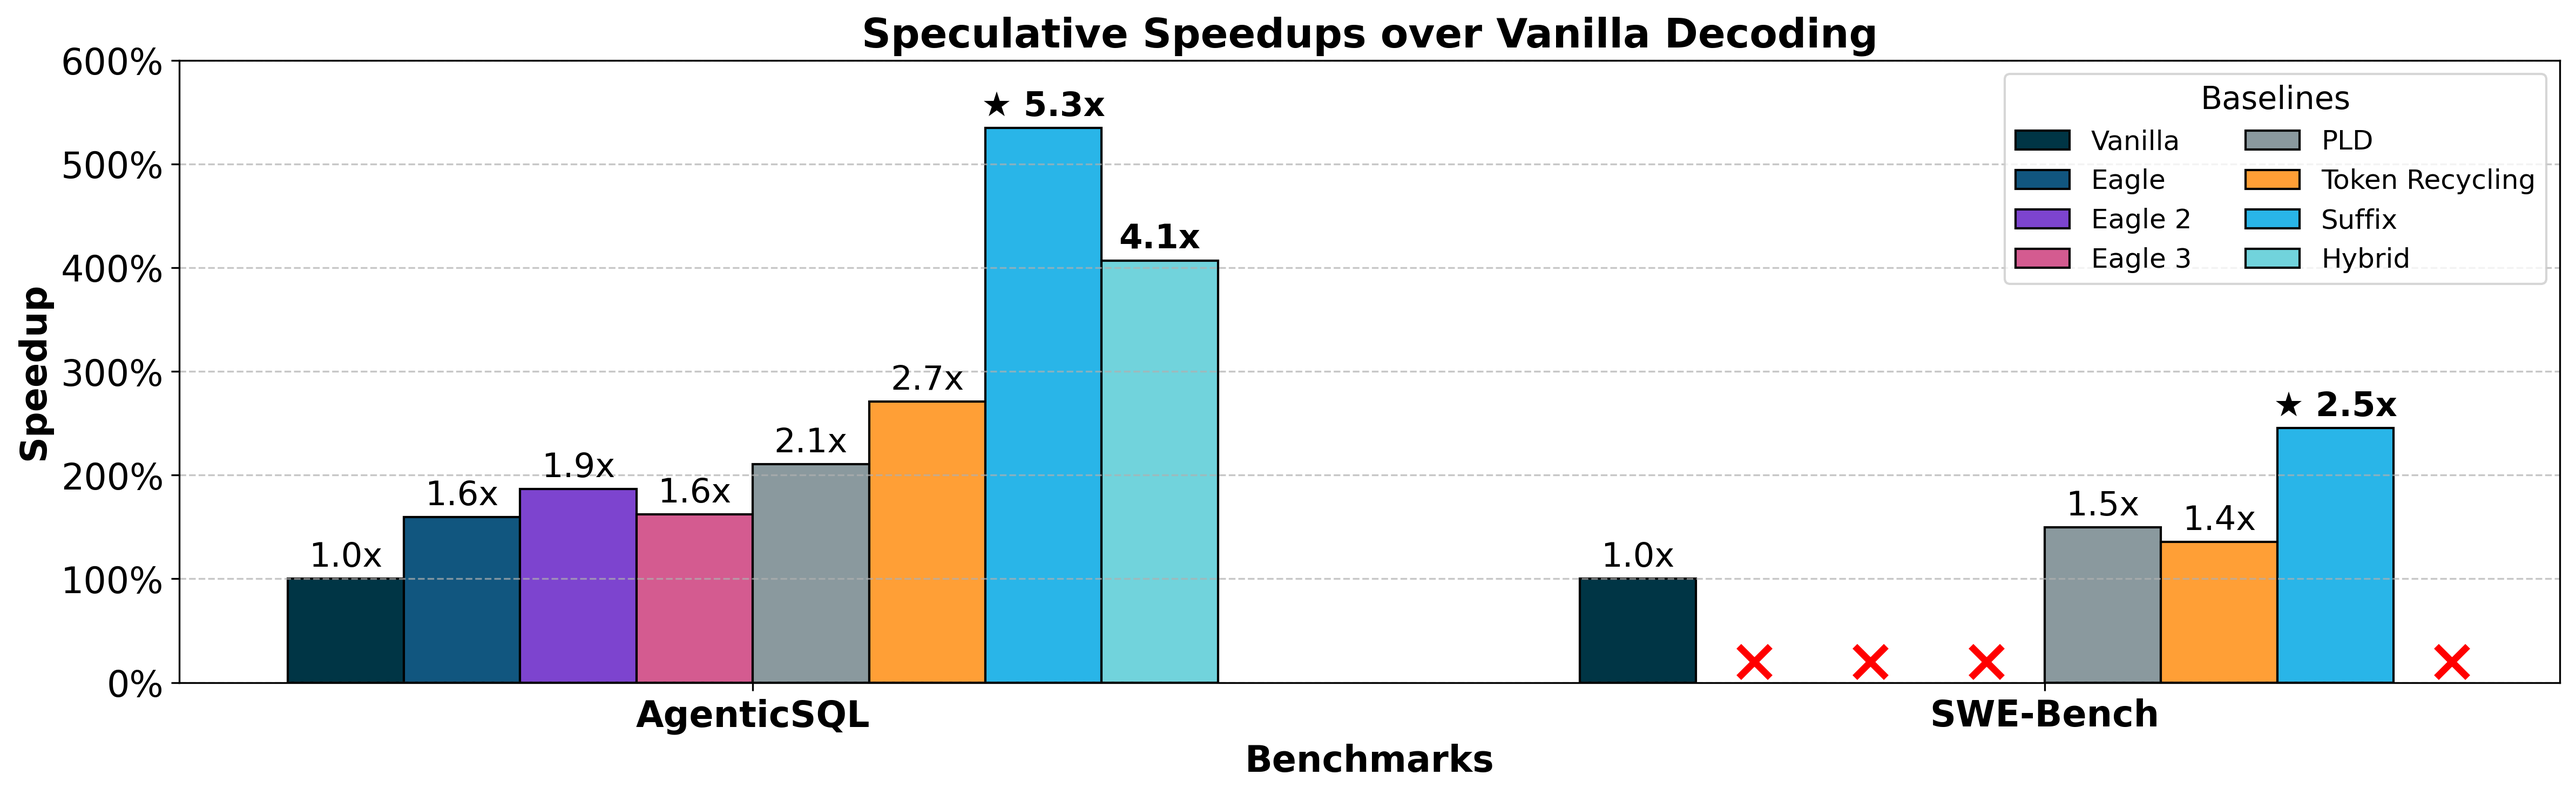
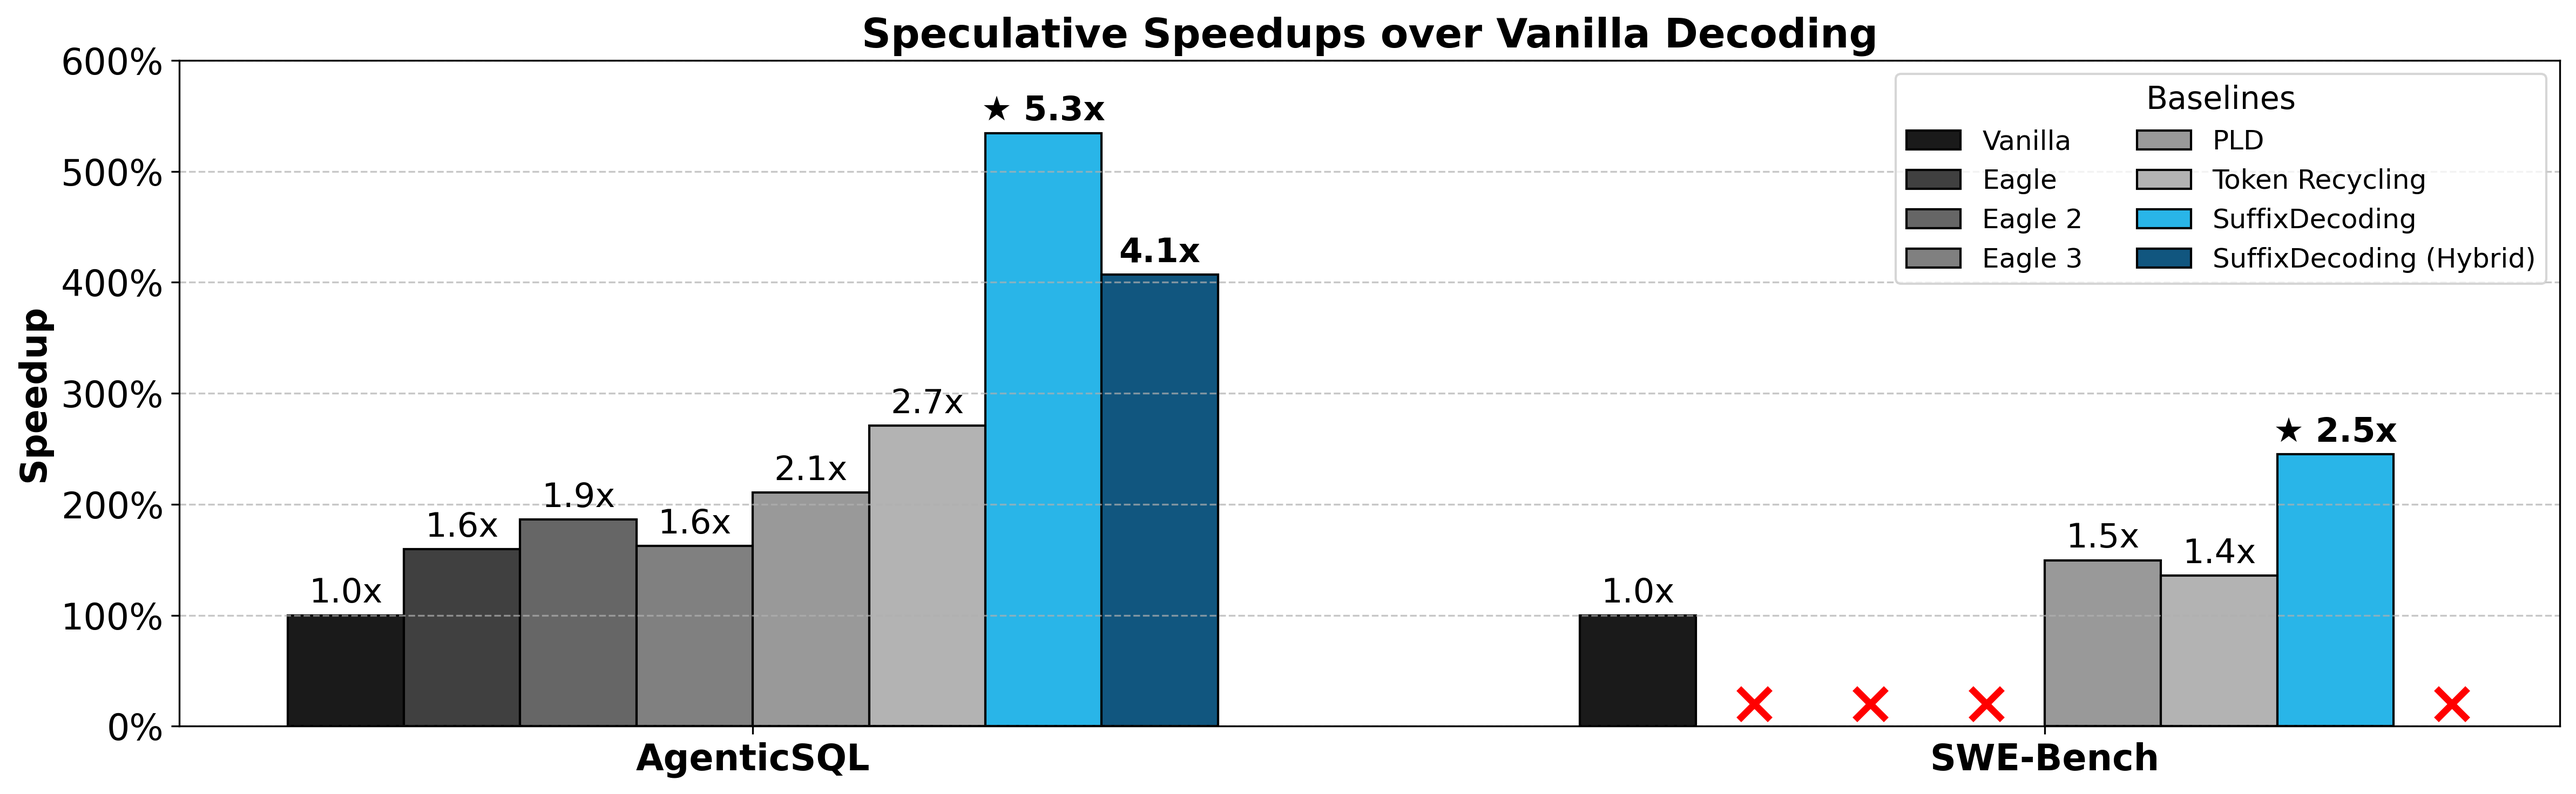
update

diff --git a/blog-post2/ngram-comparison/plot_suffix_vs_ngram.py b/blog-post2/ngram-comparison/plot_suffix_vs_ngram.py
@@ -4,41 +4,53 @@ import matplotlib.pyplot as plt
 # Data for spec_len = 32 only
 concurrency_levels = [1, 4, 16, 64]
 
-# First dataset: Suffix vs N-gram
-old_suffix_times = [4.46, 4.78, 6.23, 12.11]  # ms
-ngram_times_old = [5.37, 5.73, 6.87, 11.76]   # ms
+# First dataset: Suffix vs N-gram (old unoptimized)
+# Use best of ngram [3,5] and [5,5] for each concurrency level
+old_suffix_times = [4.33, 4.76, 6.20, 12.03]  # ms (suffix_old)
+ngram35_times_old = [5.07, 5.43, 6.73, 13.07]  # ms (ngram [3,5])
+ngram55_times_old = [5.49, 5.80, 6.87, 11.55]  # ms (ngram [5,5])
+# Best N-gram for each concurrency: min of [3,5] and [5,5]
+ngram_times_old = [min(ngram35_times_old[i], ngram55_times_old[i]) for i in range(len(concurrency_levels))]
 
 # Second dataset: Suffix vs N-gram [3,5] and N-gram [5,5] (spec-bench)
-new_suffix_times_specbench = [4.43, 4.70, 5.92, 10.96]  # ms
-ngram35_times_specbench = [5.21, 5.49, 6.80, 13.14]  # ms
-ngram55_times_specbench = [5.63, 5.83, 6.91, 11.57]  # ms
+# Using suffix_new (depth=24) from results_summary.md
+vanilla_times_specbench = [5.53, 5.78, 6.73, 10.36]  # ms
+new_suffix_times_specbench = [4.32, 4.62, 5.70, 10.37]  # ms (suffix_new depth=24)
+ngram35_times_specbench = [5.07, 5.43, 6.73, 13.07]  # ms
+ngram55_times_specbench = [5.49, 5.80, 6.87, 11.55]  # ms
 
 
 # Third dataset: Suffix vs N-gram [3,5] and N-gram [5,5] (blazedit)
-new_suffix_times_blazedit = [1.71, 1.92, 2.86, 6.06]  # ms
-ngram35_times_blazedit = [1.86, 2.16, 3.40, 7.99]  # ms
-ngram55_times_blazedit = [2.17, 2.50, 3.59, 7.42]  # ms
+# Using suffix_new (depth=24) from results_summary.md
+vanilla_times_blazedit = [5.62, 5.98, 7.44, 10.96]  # ms
+new_suffix_times_blazedit = [1.80, 2.01, 2.79, 5.58]  # ms (suffix_new depth=24)
+ngram35_times_blazedit = [1.84, 2.16, 3.37, 7.99]  # ms
+ngram55_times_blazedit = [2.15, 2.49, 3.54, 7.33]  # ms
 
 # Set width of bars
 bar_width = 0.35
 positions = np.arange(len(concurrency_levels))
 
-# Snowflake colors - using primary and secondary colors
-# Ngram [3,5]: #11567F (darker blue) on the left
-# Ngram [5,5]: #FF9F36 (orange) in the middle
-# Suffix: #29B5E8 (bright blue) on the right
-ngram35_color = '#11567F'
-ngram55_color = '#FF9F36'
-suffix_color = '#29B5E8'
+# Colors - grey for baselines (darker to lighter left to right), different blues for SuffixDecoding
+# Vanilla: darkest grey (leftmost)
+# Ngram [3,5]: medium grey
+# Ngram [5,5]: lighter grey (rightmost grey)
+# SuffixDecoding (unoptimized): #29B5E8 (bright blue)
+# SuffixDecoding (optimized): #29B5E8 (bright blue)
+vanilla_color = '#4d4d4d'  # darkest grey
+ngram35_color = '#808080'  # medium grey
+ngram55_color = '#b3b3b3'  # lighter grey
+suffix_color_old = '#29B5E8'  # for unoptimized version (changed from #11567F)
+suffix_color = '#29B5E8'  # for optimized version
 
 # ===================== FIGURE 1: Suffix (unoptimized) vs N-gram =====================
 fig1, ax1 = plt.subplots(figsize=(12, 6))
 
-# Plot bars - N-gram on the left, Suffix on the right
+# Plot bars - N-gram (best) on the left, SuffixDecoding (unoptimized) on the right
 ngram_bars = ax1.bar(positions - bar_width/2, ngram_times_old, bar_width,
-                     label='N-gram', color=ngram35_color, edgecolor='black', linewidth=1)
+                     label='N-gram (best of [3,5] and [5,5])', color=ngram35_color, edgecolor='black', linewidth=1)
 suffix_bars = ax1.bar(positions + bar_width/2, old_suffix_times, bar_width, 
-                      label='Suffix (unoptimized)', color=suffix_color, edgecolor='black', linewidth=1)
+                      label='SuffixDecoding (unoptimized)', color=suffix_color_old, edgecolor='black', linewidth=1)
 
 # Add value labels on top of bars
 for i, (suffix_val, ngram_val) in enumerate(zip(old_suffix_times, ngram_times_old)):
@@ -50,7 +62,7 @@ for i, (suffix_val, ngram_val) in enumerate(zip(old_suffix_times, ngram_times_ol
 # Customize plot
 ax1.set_xlabel('Concurrency Level', fontsize=16, fontweight='bold')
 ax1.set_ylabel('TPOT (ms)', fontsize=16, fontweight='bold')
-ax1.set_title('TPOT Comparison: Suffix (unoptimized) and N-gram\nSpec-Bench dataset', fontsize=18, fontweight='bold')
+ax1.set_title('TPOT Comparison: SuffixDecoding (unoptimized) and N-gram (best)\nSpec-Bench dataset', fontsize=18, fontweight='bold')
 ax1.set_xticks(positions)
 ax1.set_xticklabels(concurrency_levels, fontsize=14, fontweight='bold')
 ax1.tick_params(axis='y', labelsize=14)
@@ -67,74 +79,114 @@ plt.close()
 # ===================== FIGURE 2: Suffix vs N-gram [3,5] and [5,5] =====================
 fig2, ax2 = plt.subplots(figsize=(12, 6))
 
-# Plot bars - N-gram[3,5] on the left, N-gram[5,5] in the middle, Suffix on the right
-bar_width_3bars = 0.25
-ngram35_bars2 = ax2.bar(positions - bar_width_3bars, ngram35_times_specbench, bar_width_3bars,
+# Plot bars - Vanilla, N-gram[3,5], N-gram[5,5], and SuffixDecoding
+bar_width_4bars = 0.20
+vanilla_bars2 = ax2.bar(positions - 1.5*bar_width_4bars, vanilla_times_specbench, bar_width_4bars,
+                        label='Vanilla', color=vanilla_color, edgecolor='black', linewidth=1)
+ngram35_bars2 = ax2.bar(positions - 0.5*bar_width_4bars, ngram35_times_specbench, bar_width_4bars,
                         label='N-gram [3,5]', color=ngram35_color, edgecolor='black', linewidth=1)
-ngram55_bars2 = ax2.bar(positions, ngram55_times_specbench, bar_width_3bars,
+ngram55_bars2 = ax2.bar(positions + 0.5*bar_width_4bars, ngram55_times_specbench, bar_width_4bars,
                         label='N-gram [5,5]', color=ngram55_color, edgecolor='black', linewidth=1)
-suffix_bars2 = ax2.bar(positions + bar_width_3bars, new_suffix_times_specbench, bar_width_3bars, 
-                       label='Suffix', color=suffix_color, edgecolor='black', linewidth=1)
+suffix_bars2 = ax2.bar(positions + 1.5*bar_width_4bars, new_suffix_times_specbench, bar_width_4bars, 
+                       label='SuffixDecoding', color=suffix_color, edgecolor='black', linewidth=1)
 
-# Add value labels on top of bars
-for i, (ngram35_val, ngram55_val, suffix_val) in enumerate(zip(ngram35_times_specbench, ngram55_times_specbench, new_suffix_times_specbench)):
-    ax2.text(positions[i] - bar_width_3bars, ngram35_val + 0.3, f'{ngram35_val:.2f}', 
-            ha='center', va='bottom', fontsize=13, fontweight='bold')
-    ax2.text(positions[i], ngram55_val + 0.3, f'{ngram55_val:.2f}', 
-            ha='center', va='bottom', fontsize=13, fontweight='bold')
-    ax2.text(positions[i] + bar_width_3bars, suffix_val + 0.3, f'{suffix_val:.2f}', 
-            ha='center', va='bottom', fontsize=13, fontweight='bold')
+# Add speedup labels on top of bars (relative to vanilla)
+for i, (vanilla_val, ngram35_val, ngram55_val, suffix_val) in enumerate(zip(vanilla_times_specbench, ngram35_times_specbench, ngram55_times_specbench, new_suffix_times_specbench)):
+    # Calculate speedups relative to vanilla
+    vanilla_speedup = 1.0
+    ngram35_speedup = vanilla_val / ngram35_val
+    ngram55_speedup = vanilla_val / ngram55_val
+    suffix_speedup = vanilla_val / suffix_val
+    
+    ax2.text(positions[i] - 1.5*bar_width_4bars, vanilla_val + 0.3, f'{vanilla_speedup:.1f}x', 
+            ha='center', va='bottom', fontsize=11, fontweight='bold')
+    ax2.text(positions[i] - 0.5*bar_width_4bars, ngram35_val + 0.3, f'{ngram35_speedup:.2f}x', 
+            ha='center', va='bottom', fontsize=11, fontweight='bold')
+    ax2.text(positions[i] + 0.5*bar_width_4bars, ngram55_val + 0.3, f'{ngram55_speedup:.2f}x', 
+            ha='center', va='bottom', fontsize=11, fontweight='bold')
+    ax2.text(positions[i] + 1.5*bar_width_4bars, suffix_val + 0.3, f'{suffix_speedup:.2f}x', 
+            ha='center', va='bottom', fontsize=11, fontweight='bold')
 
 # Customize plot
 ax2.set_xlabel('Concurrency Level', fontsize=16, fontweight='bold')
 ax2.set_ylabel('TPOT (ms)', fontsize=16, fontweight='bold')
-ax2.set_title('TPOT Comparison: Suffix and N-gram\nSpec-Bench dataset', fontsize=18, fontweight='bold')
+ax2.set_title('TPOT Comparison: SuffixDecoding and N-gram\nSpec-Bench dataset', fontsize=18, fontweight='bold')
 ax2.set_xticks(positions)
 ax2.set_xticklabels(concurrency_levels, fontsize=14, fontweight='bold')
 ax2.tick_params(axis='y', labelsize=14)
 ax2.legend(fontsize=14, frameon=True, loc='upper left')
-ax2.set_ylim(0, 15)
+ax2.set_ylim(0, 16)  # Max value is 13.14, need room for labels
 ax2.grid(axis='y', linestyle='--', alpha=0.7)
 
 # Save plot
 plt.tight_layout()
 plt.savefig('new_suffix_vs_ngram_specbench.png', format='png', dpi=300, bbox_inches='tight')
 print("Saved: new_suffix_vs_ngram_specbench.png")
+
+# Print speedup comparisons for Spec-Bench
+print("\n=== Spec-Bench: SuffixDecoding speedup vs N-gram baselines ===")
+for i, conc in enumerate(concurrency_levels):
+    suffix_vs_ngram35 = ngram35_times_specbench[i] / new_suffix_times_specbench[i]
+    suffix_vs_ngram55 = ngram55_times_specbench[i] / new_suffix_times_specbench[i]
+    best_ngram = min(ngram35_times_specbench[i], ngram55_times_specbench[i])
+    suffix_vs_best = best_ngram / new_suffix_times_specbench[i]
+    print(f"Concurrency {conc}: vs N-gram[3,5]={suffix_vs_ngram35:.2f}x, vs N-gram[5,5]={suffix_vs_ngram55:.2f}x, vs best={suffix_vs_best:.2f}x")
+
 plt.close()
 
 # ===================== FIGURE 3: Suffix vs N-gram [3,5] and [5,5] (blazedit) =====================
 fig3, ax3 = plt.subplots(figsize=(12, 6))
 
-# Plot bars - N-gram[3,5] on the left, N-gram[5,5] in the middle, Suffix on the right
-ngram35_bars3 = ax3.bar(positions - bar_width_3bars, ngram35_times_blazedit, bar_width_3bars,
+# Plot bars - Vanilla, N-gram[3,5], N-gram[5,5], and SuffixDecoding
+vanilla_bars3 = ax3.bar(positions - 1.5*bar_width_4bars, vanilla_times_blazedit, bar_width_4bars,
+                        label='Vanilla', color=vanilla_color, edgecolor='black', linewidth=1)
+ngram35_bars3 = ax3.bar(positions - 0.5*bar_width_4bars, ngram35_times_blazedit, bar_width_4bars,
                         label='N-gram [3,5]', color=ngram35_color, edgecolor='black', linewidth=1)
-ngram55_bars3 = ax3.bar(positions, ngram55_times_blazedit, bar_width_3bars,
+ngram55_bars3 = ax3.bar(positions + 0.5*bar_width_4bars, ngram55_times_blazedit, bar_width_4bars,
                         label='N-gram [5,5]', color=ngram55_color, edgecolor='black', linewidth=1)
-suffix_bars3 = ax3.bar(positions + bar_width_3bars, new_suffix_times_blazedit, bar_width_3bars, 
-                       label='Suffix', color=suffix_color, edgecolor='black', linewidth=1)
+suffix_bars3 = ax3.bar(positions + 1.5*bar_width_4bars, new_suffix_times_blazedit, bar_width_4bars, 
+                       label='SuffixDecoding', color=suffix_color, edgecolor='black', linewidth=1)
 
-# Add value labels on top of bars
-for i, (ngram35_val, ngram55_val, suffix_val) in enumerate(zip(ngram35_times_blazedit, ngram55_times_blazedit, new_suffix_times_blazedit)):
-    ax3.text(positions[i] - bar_width_3bars, ngram35_val + 0.2, f'{ngram35_val:.2f}', 
-            ha='center', va='bottom', fontsize=13, fontweight='bold')
-    ax3.text(positions[i], ngram55_val + 0.2, f'{ngram55_val:.2f}', 
-            ha='center', va='bottom', fontsize=13, fontweight='bold')
-    ax3.text(positions[i] + bar_width_3bars, suffix_val + 0.2, f'{suffix_val:.2f}', 
-            ha='center', va='bottom', fontsize=13, fontweight='bold')
+# Add speedup labels on top of bars (relative to vanilla)
+for i, (vanilla_val, ngram35_val, ngram55_val, suffix_val) in enumerate(zip(vanilla_times_blazedit, ngram35_times_blazedit, ngram55_times_blazedit, new_suffix_times_blazedit)):
+    # Calculate speedups relative to vanilla
+    vanilla_speedup = 1.0
+    ngram35_speedup = vanilla_val / ngram35_val
+    ngram55_speedup = vanilla_val / ngram55_val
+    suffix_speedup = vanilla_val / suffix_val
+    
+    ax3.text(positions[i] - 1.5*bar_width_4bars, vanilla_val + 0.2, f'{vanilla_speedup:.1f}x', 
+            ha='center', va='bottom', fontsize=11, fontweight='bold')
+    ax3.text(positions[i] - 0.5*bar_width_4bars, ngram35_val + 0.2, f'{ngram35_speedup:.2f}x', 
+            ha='center', va='bottom', fontsize=11, fontweight='bold')
+    ax3.text(positions[i] + 0.5*bar_width_4bars, ngram55_val + 0.2, f'{ngram55_speedup:.2f}x', 
+            ha='center', va='bottom', fontsize=11, fontweight='bold')
+    ax3.text(positions[i] + 1.5*bar_width_4bars, suffix_val + 0.2, f'{suffix_speedup:.2f}x', 
+            ha='center', va='bottom', fontsize=11, fontweight='bold')
 
 # Customize plot
 ax3.set_xlabel('Concurrency Level', fontsize=16, fontweight='bold')
 ax3.set_ylabel('TPOT (ms)', fontsize=16, fontweight='bold')
-ax3.set_title('TPOT Comparison: Suffix and N-gram\nBlazedit dataset', fontsize=18, fontweight='bold')
+ax3.set_title('TPOT Comparison: SuffixDecoding and N-gram\nBlazedit dataset', fontsize=18, fontweight='bold')
 ax3.set_xticks(positions)
 ax3.set_xticklabels(concurrency_levels, fontsize=14, fontweight='bold')
 ax3.tick_params(axis='y', labelsize=14)
 ax3.legend(fontsize=14, frameon=True, loc='upper left')
-ax3.set_ylim(0, 9)
+ax3.set_ylim(0, 13)  # Max value is 11.12, need room for labels
 ax3.grid(axis='y', linestyle='--', alpha=0.7)
 
 # Save plot
 plt.tight_layout()
 plt.savefig('new_suffix_vs_ngram_blazedit.png', format='png', dpi=300, bbox_inches='tight')
 print("Saved: new_suffix_vs_ngram_blazedit.png")
+
+# Print speedup comparisons for Blazedit
+print("\n=== Blazedit: SuffixDecoding speedup vs N-gram baselines ===")
+for i, conc in enumerate(concurrency_levels):
+    suffix_vs_ngram35 = ngram35_times_blazedit[i] / new_suffix_times_blazedit[i]
+    suffix_vs_ngram55 = ngram55_times_blazedit[i] / new_suffix_times_blazedit[i]
+    best_ngram = min(ngram35_times_blazedit[i], ngram55_times_blazedit[i])
+    suffix_vs_best = best_ngram / new_suffix_times_blazedit[i]
+    print(f"Concurrency {conc}: vs N-gram[3,5]={suffix_vs_ngram35:.2f}x, vs N-gram[5,5]={suffix_vs_ngram55:.2f}x, vs best={suffix_vs_best:.2f}x")
+
 plt.close()

diff --git a/blog-post2/speedups/plot_speedups.py b/blog-post2/speedups/plot_speedups.py
@@ -8,7 +8,7 @@ import matplotlib.ticker as mtick
 
 # Data setup
 benchmarks = ['AgenticSQL', 'SWE-Bench']
-baselines = ['Vanilla', 'Eagle', 'Eagle 2', 'Eagle 3', 'PLD', 'Token Recycling', 'Suffix', 'Hybrid']
+baselines = ['Vanilla', 'Eagle', 'Eagle 2', 'Eagle 3', 'PLD', 'Token Recycling', 'SuffixDecoding', 'SuffixDecoding (Hybrid)']
 
 # Speedup data - using best performing variant for Suffix and Hybrid
 # For AgenticSQL: Suffix (linear) = 5.345 > Suffix (tree) = 5.175, so use linear
@@ -36,10 +36,10 @@ tokens_data = np.array([
 bar_width = 0.09
 positions = np.arange(len(benchmarks))
 
-# Colors for different baselines - Snowflake color palette (ordered dark to light)
-# Using primary, secondary, and tertiary colors from Snowflake branding
+# Colors for different baselines
 # Vanilla -> Eagle -> Eagle 2 -> Eagle 3 -> PLD -> Token Recycling -> Suffix -> Hybrid
-colors = ['#003545', '#11567F', '#7D44CF', '#D45B90', '#8A999E', '#FF9F36', '#29B5E8', '#71D3DC']
+# Using shades of gray/black for baselines except Suffix (#29B5E8) and Hybrid (#11567F)
+colors = ['#1a1a1a', '#404040', '#666666', '#808080', '#999999', '#b3b3b3', '#29B5E8', '#11567F']
 
 # ===================== FIGURE 1: Speedup Plot =====================
 fig1, ax1 = plt.subplots(figsize=(16, 5))
@@ -73,7 +73,7 @@ for i, baseline in enumerate(baselines):
                         fontsize=15, fontweight=fontweight)
 
 # Customize speedup plot
-ax1.set_xlabel('Benchmarks', fontsize=16, fontweight='bold')
+# ax1.set_xlabel('Benchmarks', fontsize=16, fontweight='bold')
 ax1.set_ylabel('Speedup', fontsize=16, fontweight='bold')
 ax1.set_title('Speculative Speedups over Vanilla Decoding', fontsize=18, fontweight='bold')
 ax1.set_xticks(positions)
@@ -110,7 +110,7 @@ for i, baseline in enumerate(baselines):
             ax2.text(x_pos, value + 0.1, f"{value:.1f}", ha='center', va='bottom', fontsize=15, fontweight=fontweight)
 
 # Customize mean accepted tokens plot
-ax2.set_xlabel('Benchmarks', fontsize=16, fontweight='bold')
+# ax2.set_xlabel('Benchmarks', fontsize=16, fontweight='bold')
 ax2.set_ylabel('Mean Accepted Tokens\n(tokens/step)', fontsize=16, fontweight='bold')
 ax2.set_title('Mean Accepted Tokens per Step', fontsize=18, fontweight='bold')
 ax2.set_xticks(positions)

diff --git a/blog-post2/ablation/plot_ablation.py b/blog-post2/ablation/plot_ablation.py
@@ -7,9 +7,9 @@ spec_times = [27.5, 8.10, 3.72]  # us (microseconds)
 update_times = [3.17, 2.06, 2.60]  # us (microseconds)
 memory = [671, 292, 433]  # MB
 
-# Snowflake colors - using colors from the palette
-# Use different colors for each method
-method_colors = ['#11567F', '#7D44CF', '#29B5E8']  # darker blue, purple, bright blue
+# Colors - shades of grey for baselines, bright blue for final optimized version
+# Similar to color scheme in plot_suffix_vs_ngram.py and plot_speedups.py
+method_colors = ['#4d4d4d', '#11567F', '#29B5E8']  # dark grey, darker blue, bright blue
 
 # Create figure with two subplots side by side
 # Use width_ratios to make left plot 2x wider than right plot

diff --git a/blog-post2/results_summary.md b/blog-post2/results_summary.md
@@ -1,10 +1,10 @@
-## Experiment Results Summary
+# Experiment Results Summary
 
-### Experimental Setup
+## Experimental Setup
 
 - **Model**: meta-llama/Llama-3.1-8B-Instruct
 - **Datasets**: Spec-Bench and BlazeEdit
-- **Tree depth**: 64
+- **Tree depth**: 64, 32, or 24
 - **Speculation length**: 32
 - **Trials per configuration**: 3
 - **Concurrency levels**: 1, 4, 16, 64
@@ -14,23 +14,27 @@
   - Suffix matching (old and new implementations)
 - **Metric**: Mean Time Per Output Token (TPOT) in milliseconds, averaged across trials
 
-### Blazedit
+## Blazedit
 
 | Baseline | Concurrency 1 | Concurrency 4 | Concurrency 16 | Concurrency 64 |
 |----------|------------------|------------------|------------------|------------------|
-| vanilla | 5.61 | 5.99 | 7.46 | 11.12 |
-| ngram [3, 5] | 1.86 | 2.16 | 3.40 | 7.99 |
-| ngram [5, 5] | 2.17 | 2.50 | 3.59 | 7.42 |
-| suffix_old | 1.71 | 1.99 | 3.02 | 6.58 |
-| suffix_new | 1.71 | 1.92 | 2.86 | 6.06 |
+| vanilla | 5.62 | 5.98 | 7.44 | 10.96 |
+| ngram [3, 5] | 1.84 | 2.16 | 3.37 | 7.99 |
+| ngram [5, 5] | 2.15 | 2.49 | 3.54 | 7.33 |
+| suffix_old | 1.69 | 1.95 | 2.99 | 6.54 |
+| suffix_new (depth=64) | 1.68 | 1.91 | 2.83 | 5.98 |
+| suffix_new (depth=32) | 1.76 | 1.97 | 2.81 | 5.77 |
+| suffix_new (depth=24) | 1.80 | 2.01 | 2.79 | 5.58 |
 
-### Spec Bench
+## Spec Bench
 
 | Baseline | Concurrency 1 | Concurrency 4 | Concurrency 16 | Concurrency 64 |
 |----------|------------------|------------------|------------------|------------------|
-| vanilla | 5.53 | 5.80 | 6.75 | 10.48 |
-| ngram [3, 5] | 5.21 | 5.49 | 6.80 | 13.14 |
-| ngram [5, 5] | 5.63 | 5.83 | 6.91 | 11.57 |
-| suffix_old | 4.46 | 4.78 | 6.23 | 12.11 |
-| suffix_new | 4.43 | 4.70 | 5.92 | 10.96 |
+| vanilla | 5.53 | 5.78 | 6.73 | 10.36 |
+| ngram [3, 5] | 5.07 | 5.43 | 6.73 | 13.07 |
+| ngram [5, 5] | 5.49 | 5.80 | 6.87 | 11.55 |
+| suffix_old | 4.33 | 4.76 | 6.20 | 12.03 |
+| suffix_new (depth=64) | 4.33 | 4.69 | 5.84 | 10.90 |
+| suffix_new (depth=32) | 4.34 | 4.64 | 5.75 | 10.53 |
+| suffix_new (depth=24) | 4.32 | 4.62 | 5.70 | 10.37 |
 
